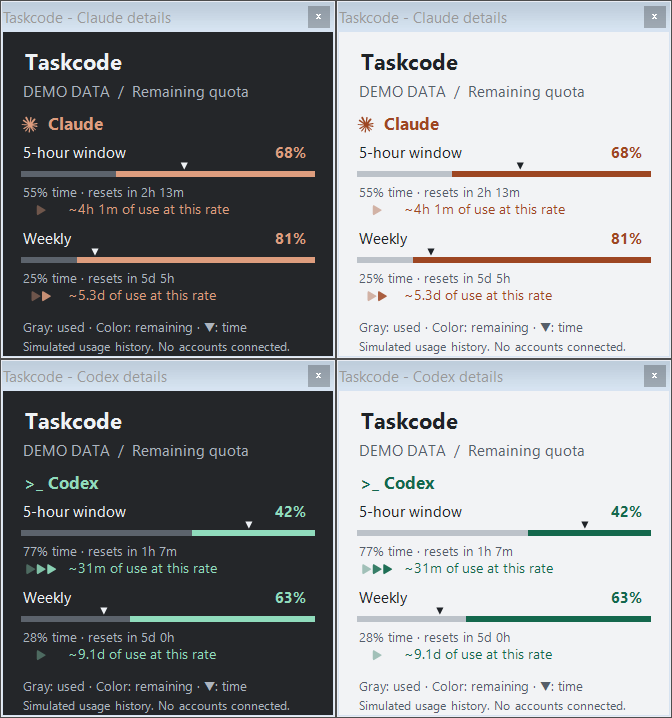
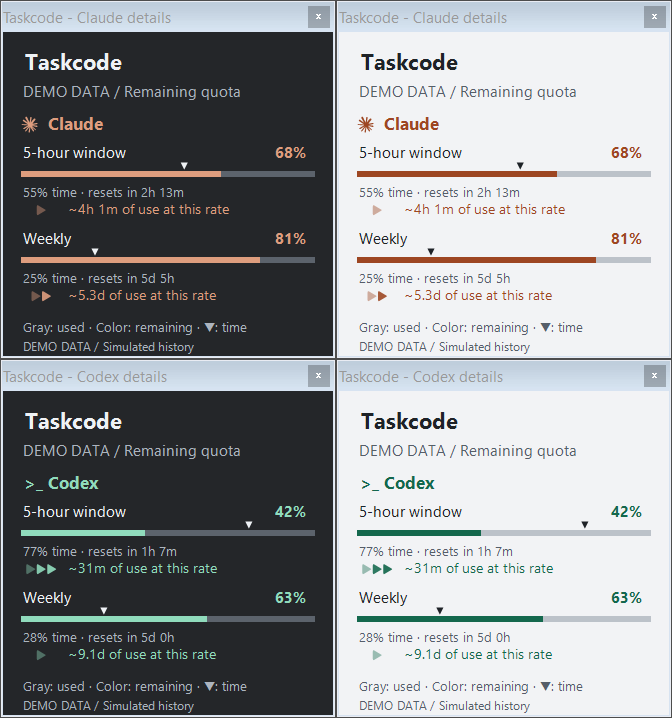
Align details quota fill direction with taskbar indicators

diff --git a/src/Taskcode.Probe/Indicator.cs b/src/Taskcode.Probe/Indicator.cs
@@ -264,13 +264,13 @@ namespace Taskcode.Probe
             using (var fill = new SolidBrush(Provider == "claude" ? Theme.Claude : Theme.Codex))
             using (var marker = new SolidBrush(Theme.Text))
             {
-                // Both the used-quota boundary and the time marker advance left to right.
-                // Remaining quota stays colored to the right of the consumed portion.
+                // Match the taskbar: remaining quota fills from the left.
+                // The independent time marker still advances left to right.
                 const float inset = 6;
                 float width = Math.Max(0, Width - 2 * inset);
-                float used = (float)Period.UsedFraction * width;
+                float remaining = (1 - (float)Period.UsedFraction) * width;
                 e.Graphics.FillRectangle(track, inset, 9, width, 6);
-                e.Graphics.FillRectangle(fill, inset + used, 9, width - used, 6);
+                e.Graphics.FillRectangle(fill, inset, 9, remaining, 6);
                 var elapsed = Period.ElapsedAt(RenderTimeUtc);
                 if (elapsed.HasValue)
                 {

diff --git a/docs/DESIGN.md b/docs/DESIGN.md
@@ -20,7 +20,7 @@ The **Indicator style** setting provides an immediate preview and saves the sele
 
 Percentages represent remaining quota and must be labeled accordingly in the details panel. Claude and Codex use the same convention. Do not mix remaining and consumed percentages.
 
-In the details panel, quota bars also compare consumption with elapsed time. The muted segment on the left is used quota; the colored segment on the right is remaining quota. The boundary between them advances with consumption. A downward arrow above each bar advances from left to right as the period elapses. When the consumption boundary is to the right of the arrow, usage is faster than the period's time pace. This direction applies to the detail bars; taskbar indicators continue to show remaining quota in their compact styles.
+Detail bars use the same fill convention as the taskbar: colored remaining quota on the left and muted used quota on the right. A downward arrow independently advances from left to right as the period elapses. Its position represents elapsed time, while the colored bar represents remaining quota; their percentages use opposite directions. Use the tooltip's numeric budget-pace comparison to compare consumption with elapsed time.
 
 The arrow starts at zero on reset and reaches the end at renewal. Unknown or invalid time bounds hide the arrow instead of guessing. Expired data stays at the end until a new period is supplied. The tooltip includes used quota, elapsed time, and budget pace; a two-percentage-point tolerance is treated as on pace.
 

diff --git a/docs/PROTOTYPE.md b/docs/PROTOTYPE.md
@@ -19,7 +19,7 @@ The same command also checks transparent background pixels, rendered content, an
 
 The details panel includes separate remaining-quota bars for each provider's five-hour and weekly windows. Normal startup reads account data. `--demo` runs an explicit offline preview with Claude 68% / 81% and Codex 42% / 63%. The build writes `out/probe/details-check.png` using sample data for an offscreen layout review in both themes.
 
-Each detail bar has a downward arrow tracking elapsed time. The arrow moves from the start at reset to the end at renewal, independently of quota consumption. Muted space on the left means used quota; provider-colored space on the right means remaining quota. A consumption boundary beyond the arrow means usage is ahead of time. Hover over a bar for the numeric pace comparison.
+Each detail bar has a downward arrow tracking elapsed time. The arrow moves from the start at reset to the end at renewal, independently of quota consumption. Provider-colored space on the left means remaining quota; muted space on the right means used quota, matching the taskbar. Hover over a bar for the numeric budget-pace comparison; the arrow tracks elapsed time while the fill tracks remaining quota.
 
 Elapsed time and reset countdowns refresh once per second while the details panel is visible. Live periods use source reset timestamps. Demo dates are simulated only in offline preview mode. The self-test includes ten assertions for time boundaries, unavailable timing, and pace comparisons.
 
